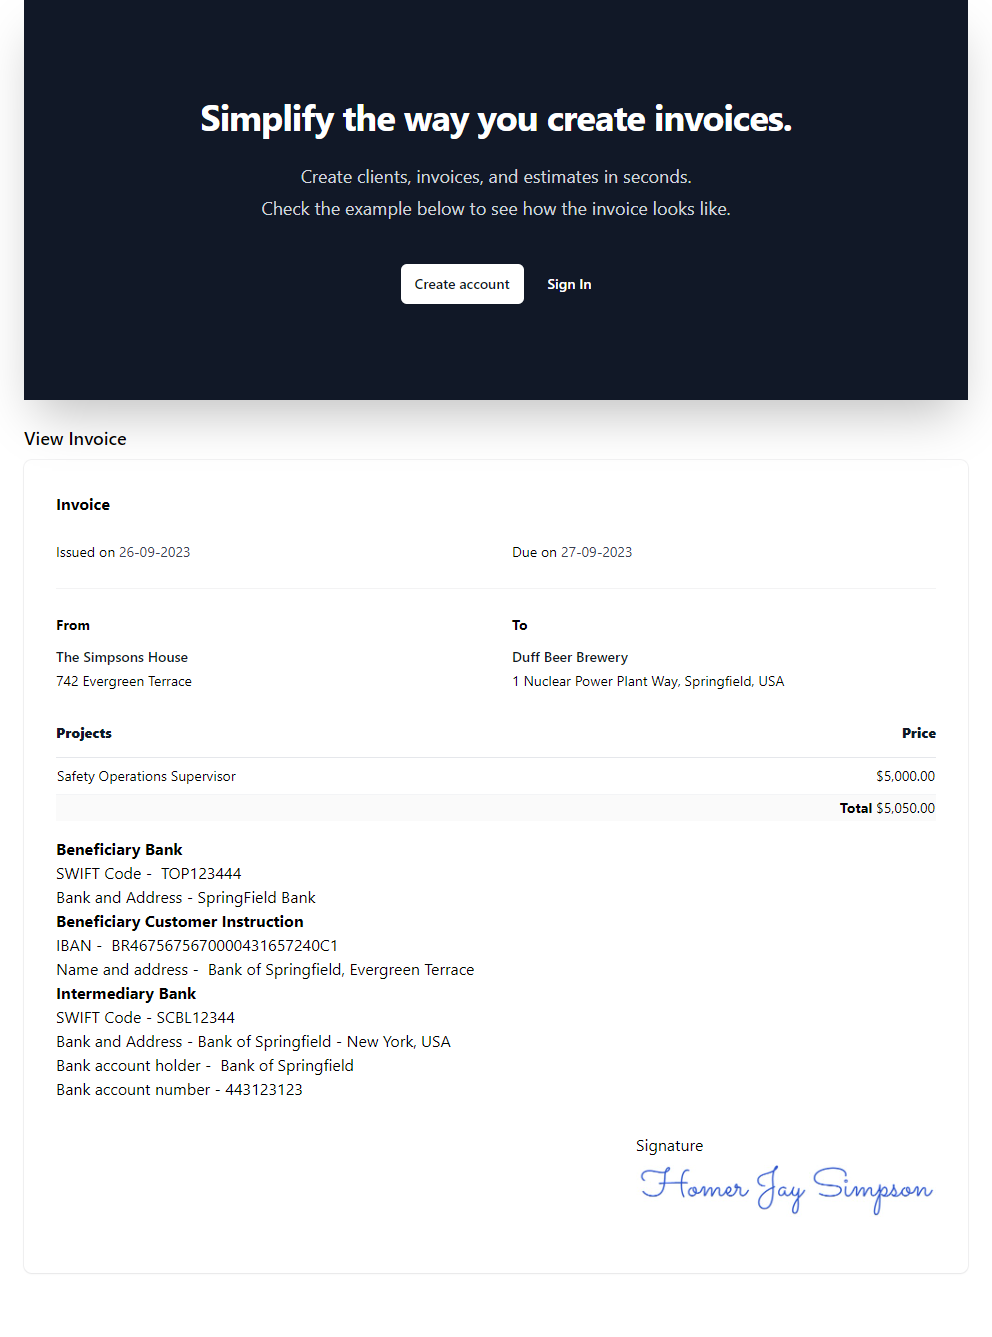
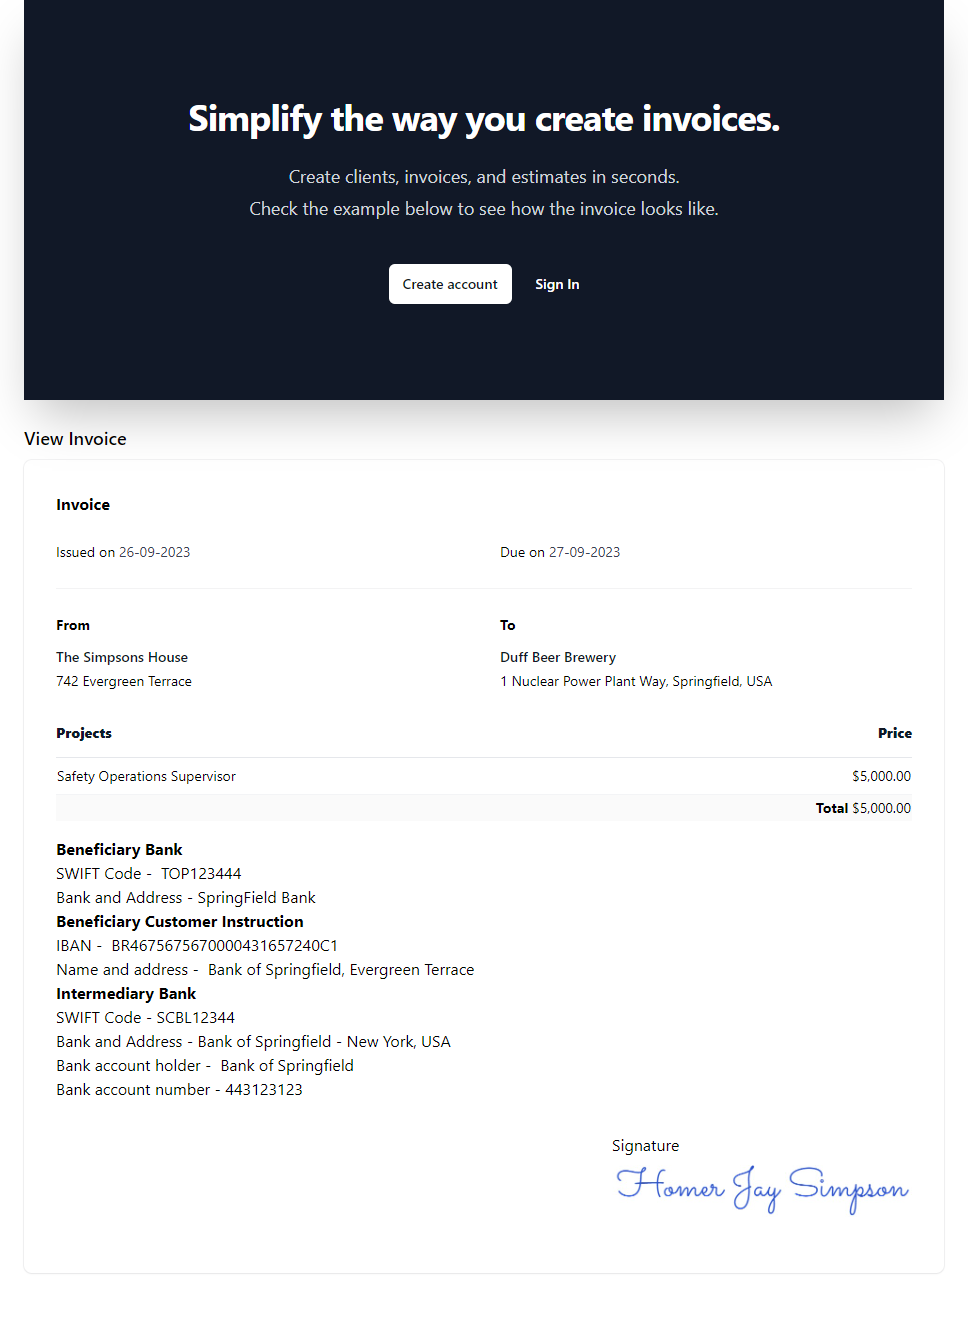
fix: wrong total amount on example page

diff --git a/src/app/page.tsx b/src/app/page.tsx
@@ -73,7 +73,7 @@ export default function Page() {
             currentDate="2023-09-26"
             profile={data.profileData}
             client={data.clientData}
-            total={5050}
+            total={5000}
             invoiceData={data.invoiceData} 
           />
         )}
